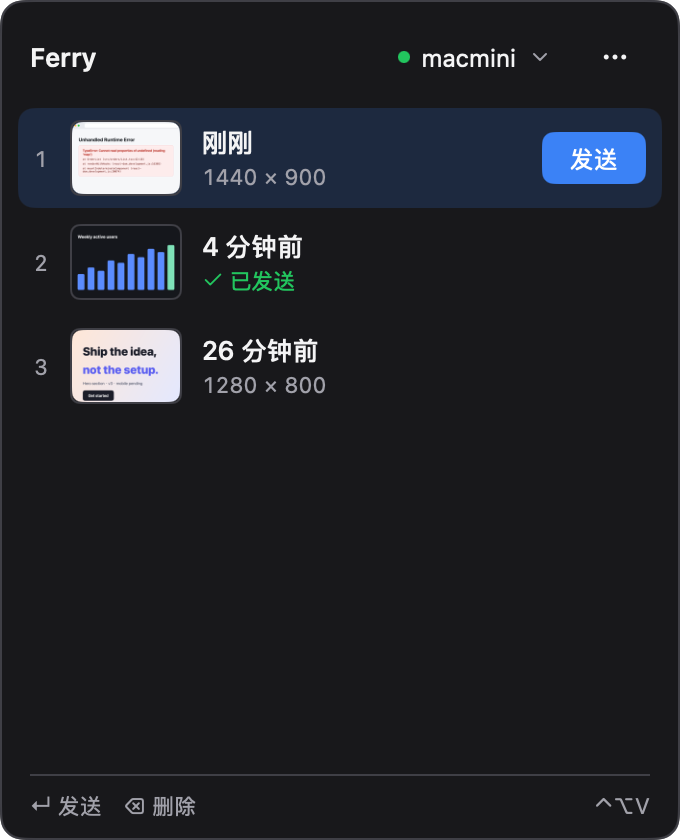
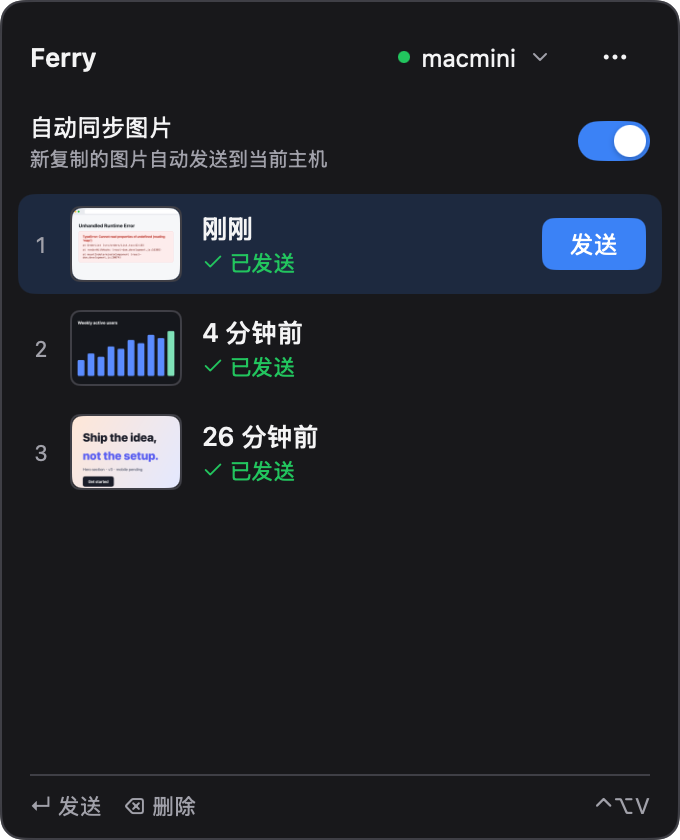
feat: add a persistent auto-sync switch to the clipboard panel

Changed region(s): [[0.0, 0.1238, 0.9882, 0.5881], [0.3088, 0.4952, 0.4632, 0.5881], [0.0309, 0.4024, 0.0618, 0.4333]]

diff --git a/auto_sync_test.go b/auto_sync_test.go
@@ -3,9 +3,10 @@ package main
 import (
 	"image/color"
 	"testing"
+	"time"
 
 	"github.com/egoist/mygo/transfer"
-	"time"
+	"github.com/egoist/mygo/ui"
 )
 
 func drainSends(t *testing.T, a *app, updates chan func()) {
@@ -145,5 +146,42 @@ func TestAutoSyncRepeatedClipboardImage(t *testing.T) {
 				t.Fatal("duplicate image added to history")
 			}
 		})
+	}
+}
+
+func TestAutoSyncControl(t *testing.T) {
+	a := newApp(t.TempDir(), []string{"mini"})
+	updates := make(chan func(), 32)
+	a.update = func(fn func()) { updates <- fn }
+	var calls []string
+	a.sender = fakeSSH("ok", &calls)
+	tt := ui.NewTester(a.view, panelWidth, panelHeight)
+	if err := tt.Click("Auto-sync images"); err != nil {
+		t.Fatal(err)
+	}
+	tt.Frame()
+	tt.Frame()
+	if !a.opts.AutoSync || !newApp(a.dir, a.hosts).opts.AutoSync {
+		t.Fatal("switch did not enable and persist auto sync")
+	}
+	a.addImage(pngData(t, 8, 8, color.White))
+	(<-updates)()
+	drainSends(t, a, updates)
+	tt.Frame()
+	if len(calls) != 1 || !tt.HasText("Sent") {
+		t.Fatal("enabled switch did not send the new image")
+	}
+	if err := tt.Click("Auto-sync images"); err != nil {
+		t.Fatal(err)
+	}
+	tt.Frame()
+	if a.opts.AutoSync || loadSettings(a.dir).AutoSync {
+		t.Fatal("switch did not disable and persist auto sync")
+	}
+	a.addImage(pngData(t, 8, 8, color.Black))
+	(<-updates)()
+	tt.Frame()
+	if len(calls) != 1 || len(a.sending) != 0 {
+		t.Fatal("disabled switch still sent a new image")
 	}
 }

diff --git a/locales/catalog_gen.go b/locales/catalog_gen.go
@@ -654,3 +654,23 @@ func ClosePanel() string { return In(i18n.Locale()).ClosePanel() }
 func (msgs Messages) ClosePanel() string {
 	return Catalog.Format(msgs.locale, "closePanel", nil)
 }
+
+// AutoSync says "Auto-sync images"
+// in the language the app shows.
+func AutoSync() string { return In(i18n.Locale()).AutoSync() }
+
+// AutoSync says "Auto-sync images"
+// in the language of msgs.
+func (msgs Messages) AutoSync() string {
+	return Catalog.Format(msgs.locale, "autoSync", nil)
+}
+
+// AutoSyncHint says "Send new clipboard images to the selected host."
+// in the language the app shows.
+func AutoSyncHint() string { return In(i18n.Locale()).AutoSyncHint() }
+
+// AutoSyncHint says "Send new clipboard images to the selected host."
+// in the language of msgs.
+func (msgs Messages) AutoSyncHint() string {
+	return Catalog.Format(msgs.locale, "autoSyncHint", nil)
+}

diff --git a/panel.go b/panel.go
@@ -78,6 +78,7 @@ func (a *app) view(c *ui.Context) {
 	}
 	box.Children(func() {
 		a.header(c)
+		a.autoSyncControl(c)
 		a.shots(c)
 		a.footer(c)
 	})
@@ -105,6 +106,19 @@ func (a *app) header(c *ui.Context) {
 				ui.Icon(c, iconMore).FontSize(15)
 			}).Menu(a.moreMenu)
 		})
+	})
+}
+
+func (a *app) autoSyncControl(c *ui.Context) {
+	ui.Row(c).Padding(4, 14, 10).Gap(12).AlignItems(ui.Center).Children(func() {
+		ui.Column(c).Grow(1).Gap(3).OnClick(func() {
+			a.opts.AutoSync = !a.opts.AutoSync
+			a.save()
+		}).Children(func() {
+			ui.Text(c, locales.AutoSync()).FontSize(12)
+			ui.Text(c, locales.AutoSyncHint()).FontSize(10).TextColor(c.Theme().TextMuted)
+		})
+		ui.Switch(c.Key("auto-sync"), &a.opts.AutoSync).Label(locales.AutoSync()).OnChange(a.save)
 	})
 }
 

diff --git a/README.md b/README.md
@@ -16,7 +16,7 @@
 
 When Claude Code runs on a remote machine over SSH, it can't read the screenshot on your Mac. Ferry lives in the menu bar and keeps a history of the images you copy or capture. Press ↵ and it sends that one image to the remote machine over SSH, then copies the image's absolute path on the remote machine. Paste the path into Claude Code and it reads the image.
 
-- **One image per send.** Only the image you pick goes over the network. There's no folder sync and no LAN share.
+- **Manual or automatic.** Pick an image to send, or turn on **Auto-sync images** to send new clipboard images to the selected host.
 - **Plain SSH.** It uses `/usr/bin/ssh` with your keys, your agent and your `~/.ssh/config`. Nothing needs installing on the remote machine.
 - **Fast.** It keeps the connection open after the first send, so later sends skip the handshake. Images are shrunk to 1568 px on the long edge, the largest size Claude reads, and sent as whichever of PNG and JPEG is smaller.
 - **Driven from the keyboard.** ⌃⌥V opens the panel. ↑↓ choose an image, ↵ sends it, 1–9 send by position, ⌫ deletes.
@@ -45,6 +45,8 @@ The app is signed but not notarized, so macOS blocks it the first time you open 
    ```
    > why does this error happen? /home/me/.cache/ferry/5f91392be1766983-1568.png
    ```
+
+Turn on **Auto-sync images** below the host selector to send new copied images and screenshots without opening the panel. It defaults to off and remembers your choice across restarts. Turning it off stops new automatic sends; uploads already in progress finish normally. Successful uploads copy their remote path unless you copied something else in the meantime. Automatic sends leave the panel open.
 
 To send an image again, select it and press ↵, or right-click it to send or delete it. **Settings** and **Clear History** are in the ⋯ menu.
 

diff --git a/README.zh-CN.md b/README.zh-CN.md
@@ -16,7 +16,7 @@
 
 通过 SSH 在远端机器上用 Claude Code 时，它读不到你本机的截图。Ferry 常驻菜单栏，记录你复制或截下的图片。按 ↵ 就把这一张经 SSH 传到远端，并把它在远端的绝对路径放进剪贴板。把路径粘贴给 Claude Code，它就能读到这张图。
 
-- **一次只传一张**：只传你选中的那张图，不同步文件夹，也不依赖局域网共享。
+- **按需或自动发送**：手动选择图片发送，或开启「自动同步图片」，把新复制的图片自动发送到当前主机。
 - **只用 SSH**：调用 `/usr/bin/ssh`，沿用你的密钥、ssh-agent 和 `~/.ssh/config`，远端什么都不用装。
 - **够快**：首次发送后会保持连接，之后再发不用重新握手。图片长边缩到 1568 px（Claude 能读取的上限），并在 PNG 和 JPEG 里取更小的那个格式发送。
 - **键盘操作**：⌃⌥V 呼出面板；↑↓ 选择，↵ 发送，1–9 按序号直接发送，⌫ 删除。
@@ -45,6 +45,8 @@
    ```
    > 这个报错怎么修？ /home/me/.cache/ferry/5f91392be1766983-1568.png
    ```
+
+开启主机选择下方的「自动同步图片」，之后复制或截图便会自动发送，无需打开面板。开关默认关闭，重启后保留设置；关闭后停止自动发送新图片，已经开始的上传会继续。成功后自动复制远端路径；如果期间复制了其他内容，就保留新的剪贴板。自动发送不会收起面板。
 
 想再发某张图，选中后按 ↵ 即可；右键可以发送或删除。「设置」和「清空历史」在 ⋯ 菜单里。
 
